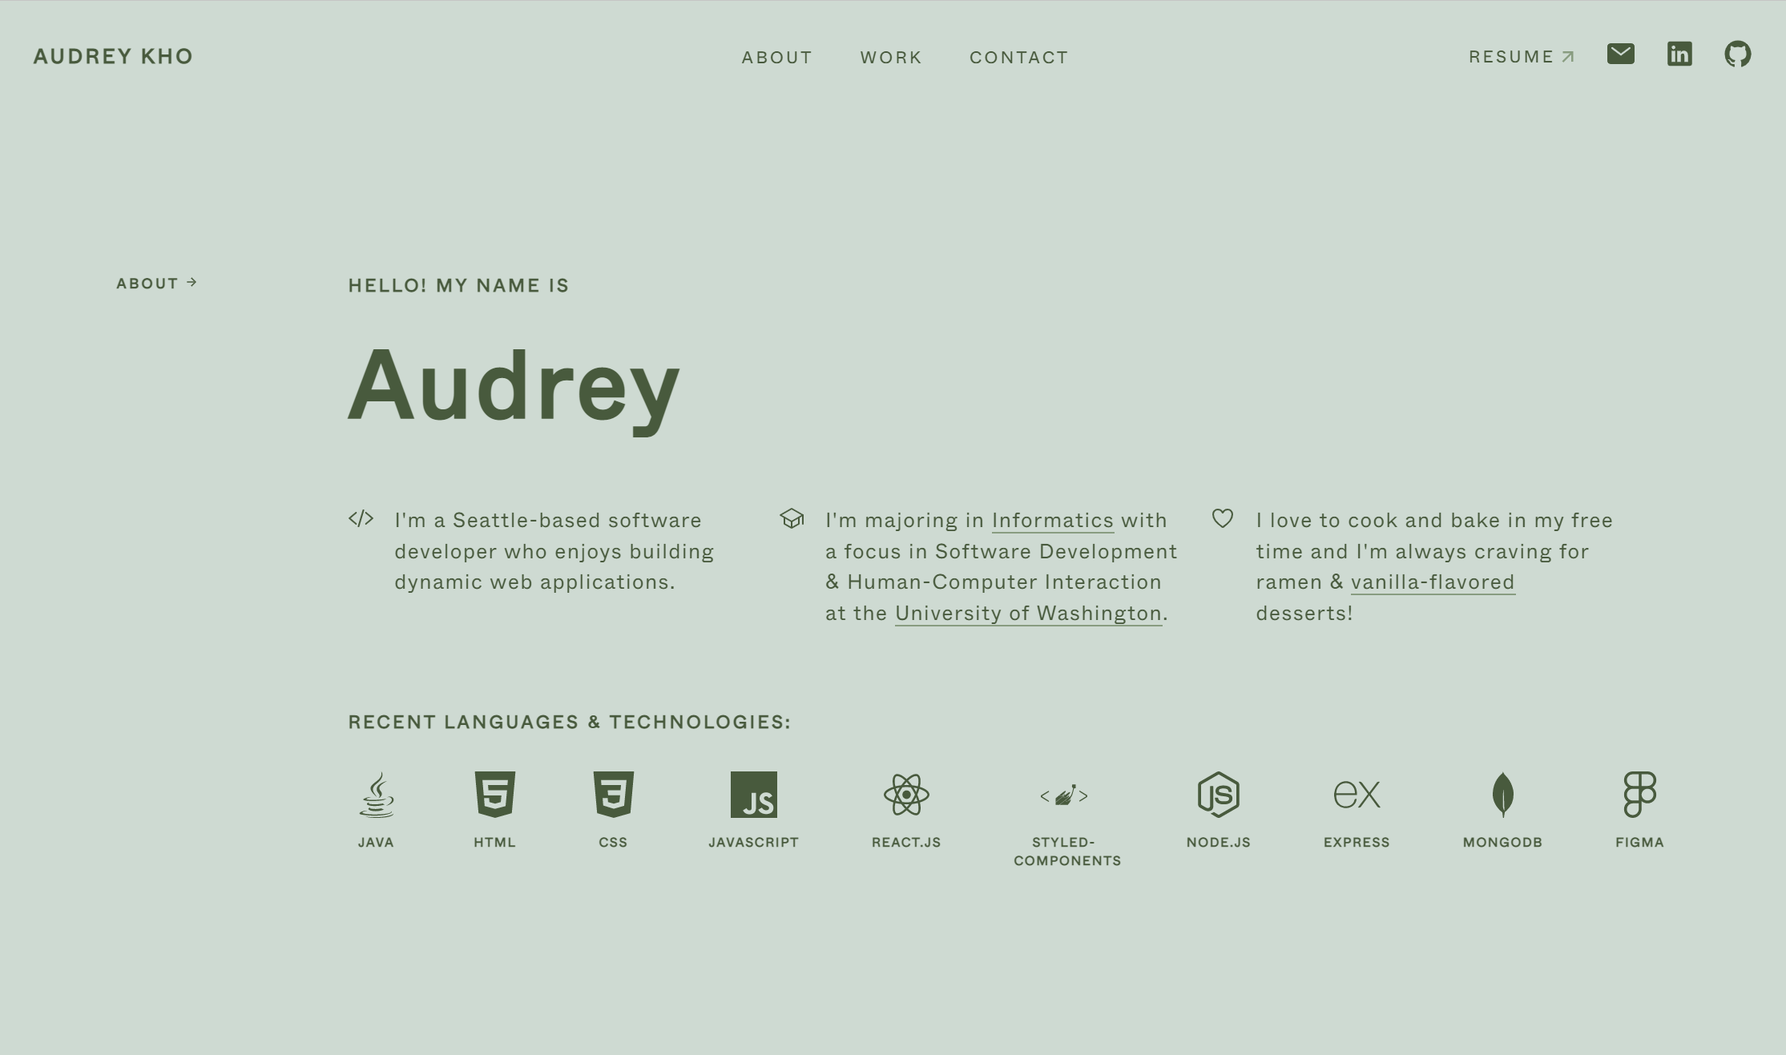
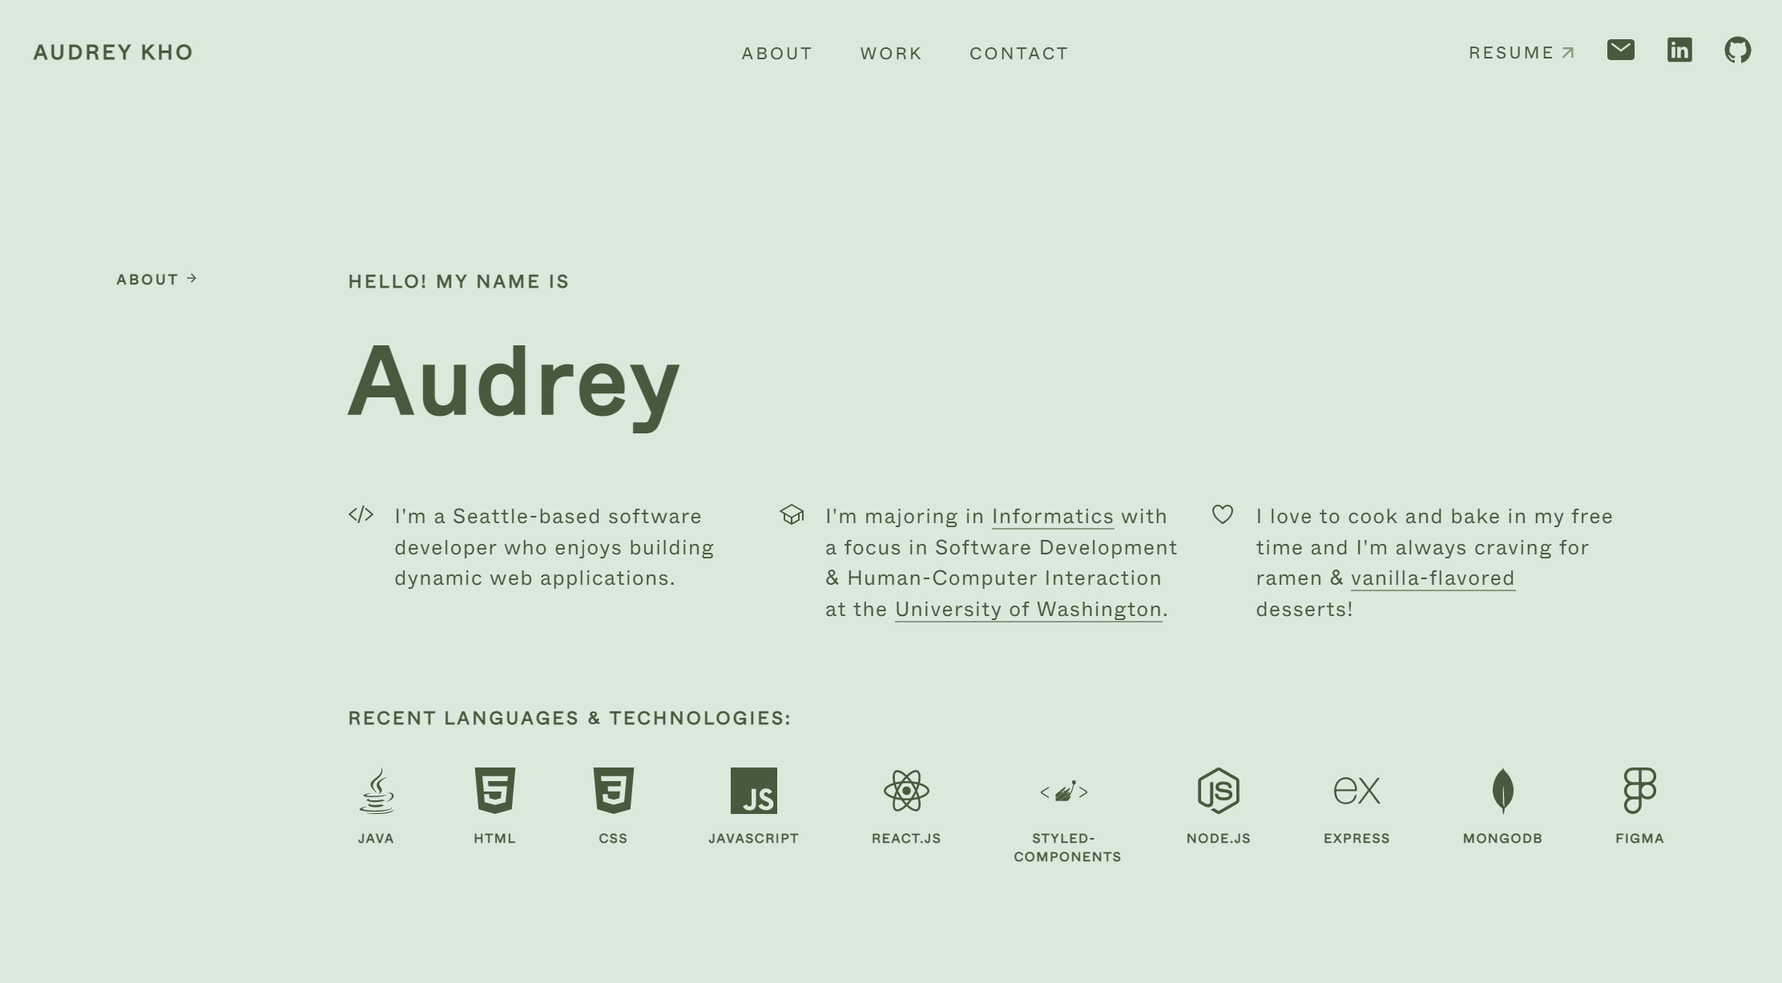
Updates

diff --git a/index.html b/index.html
@@ -1,1 +1,1 @@
-<!doctype html><html lang="en"><head><meta charset="utf-8"/><link rel="icon" href="/img/favicon.png"/><meta name="viewport" content="width=device-width,initial-scale=1,viewport-fit=cover"><meta property="og:type" content="website"/><meta property="og:image" content="https://audrey-kho.github.io/img/portfolio.png"/><meta property="og:description" content="Audrey is an aspiring software engineer based in Seattle, WA. She is currently a junior at the University of Washington studying Software Development and Human-Computer Interaction."/><meta property="description" content="Audrey is an aspiring software engineer based in Seattle, WA. She is currently a junior at the University of Washington studying Software Development and Human-Computer Interaction."/><script async src="https://www.googletagmanager.com/gtag/js?id=G-RCM78H9Z9L"></script><script>function gtag(){dataLayer.push(arguments)}window.dataLayer=window.dataLayer||[],gtag("js",new Date),gtag("config","G-RCM78H9Z9L")</script><link rel="manifest" href="/manifest.json"/><title>AUDREY KHO</title><link href="/static/css/main.ca78bb87.chunk.css" rel="stylesheet"></head><body><div id="root"></div><script>!function(e){function t(t){for(var n,i,a=t[0],c=t[1],f=t[2],s=0,p=[];s<a.length;s++)i=a[s],Object.prototype.hasOwnProperty.call(o,i)&&o[i]&&p.push(o[i][0]),o[i]=0;for(n in c)Object.prototype.hasOwnProperty.call(c,n)&&(e[n]=c[n]);for(l&&l(t);p.length;)p.shift()();return u.push.apply(u,f||[]),r()}function r(){for(var e,t=0;t<u.length;t++){for(var r=u[t],n=!0,a=1;a<r.length;a++){var c=r[a];0!==o[c]&&(n=!1)}n&&(u.splice(t--,1),e=i(i.s=r[0]))}return e}var n={},o={1:0},u=[];function i(t){if(n[t])return n[t].exports;var r=n[t]={i:t,l:!1,exports:{}};return e[t].call(r.exports,r,r.exports,i),r.l=!0,r.exports}i.e=function(e){var t=[],r=o[e];if(0!==r)if(r)t.push(r[2]);else{var n=new Promise((function(t,n){r=o[e]=[t,n]}));t.push(r[2]=n);var u,a=document.createElement("script");a.charset="utf-8",a.timeout=120,i.nc&&a.setAttribute("nonce",i.nc),a.src=function(e){return i.p+"static/js/"+({}[e]||e)+"."+{3:"c2cf6bc5",4:"5f68978f",5:"371f1f51",6:"f3b4c176",7:"9750e631"}[e]+".chunk.js"}(e);var c=new Error;u=function(t){a.onerror=a.onload=null,clearTimeout(f);var r=o[e];if(0!==r){if(r){var n=t&&("load"===t.type?"missing":t.type),u=t&&t.target&&t.target.src;c.message="Loading chunk "+e+" failed.\n("+n+": "+u+")",c.name="ChunkLoadError",c.type=n,c.request=u,r[1](c)}o[e]=void 0}};var f=setTimeout((function(){u({type:"timeout",target:a})}),12e4);a.onerror=a.onload=u,document.head.appendChild(a)}return Promise.all(t)},i.m=e,i.c=n,i.d=function(e,t,r){i.o(e,t)||Object.defineProperty(e,t,{enumerable:!0,get:r})},i.r=function(e){"undefined"!=typeof Symbol&&Symbol.toStringTag&&Object.defineProperty(e,Symbol.toStringTag,{value:"Module"}),Object.defineProperty(e,"__esModule",{value:!0})},i.t=function(e,t){if(1&t&&(e=i(e)),8&t)return e;if(4&t&&"object"==typeof e&&e&&e.__esModule)return e;var r=Object.create(null);if(i.r(r),Object.defineProperty(r,"default",{enumerable:!0,value:e}),2&t&&"string"!=typeof e)for(var n in e)i.d(r,n,function(t){return e[t]}.bind(null,n));return r},i.n=function(e){var t=e&&e.__esModule?function(){return e.default}:function(){return e};return i.d(t,"a",t),t},i.o=function(e,t){return Object.prototype.hasOwnProperty.call(e,t)},i.p="/",i.oe=function(e){throw console.error(e),e};var a=this["webpackJsonpreact-website"]=this["webpackJsonpreact-website"]||[],c=a.push.bind(a);a.push=t,a=a.slice();for(var f=0;f<a.length;f++)t(a[f]);var l=c;r()}([])</script><script src="/static/js/2.5cd3b147.chunk.js"></script><script src="/static/js/main.e0b5a104.chunk.js"></script></body></html>
+<!doctype html><html lang="en"><head><meta charset="utf-8"/><link rel="icon" href="/img/favicon.png"/><meta name="viewport" content="width=device-width,initial-scale=1,viewport-fit=cover"><meta property="og:type" content="website"/><meta property="og:image" content="https://audrey-kho.github.io/img/portfolio.png"/><meta property="og:description" content="Audrey is an aspiring software engineer based in Seattle, WA. She is currently a junior at the University of Washington studying Software Development and Human-Computer Interaction."/><meta property="description" content="Audrey is an aspiring software engineer based in Seattle, WA. She is currently a junior at the University of Washington studying Software Development and Human-Computer Interaction."/><script async src="https://www.googletagmanager.com/gtag/js?id=G-RCM78H9Z9L"></script><script>function gtag(){dataLayer.push(arguments)}window.dataLayer=window.dataLayer||[],gtag("js",new Date),gtag("config","G-RCM78H9Z9L")</script><link rel="manifest" href="/manifest.json"/><title>AUDREY KHO</title><link href="/static/css/main.4e545229.chunk.css" rel="stylesheet"></head><body><div id="root"></div><script>!function(e){function t(t){for(var n,a,i=t[0],c=t[1],f=t[2],s=0,p=[];s<i.length;s++)a=i[s],Object.prototype.hasOwnProperty.call(o,a)&&o[a]&&p.push(o[a][0]),o[a]=0;for(n in c)Object.prototype.hasOwnProperty.call(c,n)&&(e[n]=c[n]);for(l&&l(t);p.length;)p.shift()();return u.push.apply(u,f||[]),r()}function r(){for(var e,t=0;t<u.length;t++){for(var r=u[t],n=!0,i=1;i<r.length;i++){var c=r[i];0!==o[c]&&(n=!1)}n&&(u.splice(t--,1),e=a(a.s=r[0]))}return e}var n={},o={1:0},u=[];function a(t){if(n[t])return n[t].exports;var r=n[t]={i:t,l:!1,exports:{}};return e[t].call(r.exports,r,r.exports,a),r.l=!0,r.exports}a.e=function(e){var t=[],r=o[e];if(0!==r)if(r)t.push(r[2]);else{var n=new Promise((function(t,n){r=o[e]=[t,n]}));t.push(r[2]=n);var u,i=document.createElement("script");i.charset="utf-8",i.timeout=120,a.nc&&i.setAttribute("nonce",a.nc),i.src=function(e){return a.p+"static/js/"+({}[e]||e)+"."+{3:"c2cf6bc5",4:"5f68978f",5:"371f1f51",6:"5bac54b7",7:"9750e631"}[e]+".chunk.js"}(e);var c=new Error;u=function(t){i.onerror=i.onload=null,clearTimeout(f);var r=o[e];if(0!==r){if(r){var n=t&&("load"===t.type?"missing":t.type),u=t&&t.target&&t.target.src;c.message="Loading chunk "+e+" failed.\n("+n+": "+u+")",c.name="ChunkLoadError",c.type=n,c.request=u,r[1](c)}o[e]=void 0}};var f=setTimeout((function(){u({type:"timeout",target:i})}),12e4);i.onerror=i.onload=u,document.head.appendChild(i)}return Promise.all(t)},a.m=e,a.c=n,a.d=function(e,t,r){a.o(e,t)||Object.defineProperty(e,t,{enumerable:!0,get:r})},a.r=function(e){"undefined"!=typeof Symbol&&Symbol.toStringTag&&Object.defineProperty(e,Symbol.toStringTag,{value:"Module"}),Object.defineProperty(e,"__esModule",{value:!0})},a.t=function(e,t){if(1&t&&(e=a(e)),8&t)return e;if(4&t&&"object"==typeof e&&e&&e.__esModule)return e;var r=Object.create(null);if(a.r(r),Object.defineProperty(r,"default",{enumerable:!0,value:e}),2&t&&"string"!=typeof e)for(var n in e)a.d(r,n,function(t){return e[t]}.bind(null,n));return r},a.n=function(e){var t=e&&e.__esModule?function(){return e.default}:function(){return e};return a.d(t,"a",t),t},a.o=function(e,t){return Object.prototype.hasOwnProperty.call(e,t)},a.p="/",a.oe=function(e){throw console.error(e),e};var i=this["webpackJsonpreact-website"]=this["webpackJsonpreact-website"]||[],c=i.push.bind(i);i.push=t,i=i.slice();for(var f=0;f<i.length;f++)t(i[f]);var l=c;r()}([])</script><script src="/static/js/2.5cd3b147.chunk.js"></script><script src="/static/js/main.30426a74.chunk.js"></script></body></html>

diff --git a/static/js/main.30426a74.chunk.js b/static/js/main.30426a74.chunk.js
@@ -1,0 +1,2 @@
+(this["webpackJsonpreact-website"]=this["webpackJsonpreact-website"]||[]).push([[0],{1374:function(n,e,t){"use strict";t.r(e);var i,r,o,a=t(3),c=t.n(a),s=t(24),l=t.n(s),d=(t(56),t(19)),h=t(15),p=t(37),b=t(13),x=t(12),f=t(48),j=t(9),u=t(49),m=t(4),g=c.a.lazy((function(){return Promise.all([t.e(3),t.e(5)]).then(t.bind(null,1382))})),k=c.a.lazy((function(){return t.e(4).then(t.bind(null,1393))})),O=c.a.lazy((function(){return Promise.all([t.e(7),t.e(6)]).then(t.bind(null,1394))})),w=Object(u.a)({apiKey:"AIzaSyDe1AnnQzKoIb2kmpig5FYj60h6isSFK8c",authDomain:"audrey-kho.firebaseapp.com",databaseURL:"https://audrey-kho-default-rtdb.firebaseio.com",projectId:"audrey-kho",storageBucket:"audrey-kho.appspot.com",messagingSenderId:"306777134790",appId:"1:306777134790:web:024444a1e5d426846369c7",measurementId:"G-1WMJFHDP7Q"});function y(){var n=Object(a.useState)(!1),e=Object(h.a)(n,2),t=e[0],i=e[1],r=Object(a.useRef)(null);return Object(a.useEffect)((function(){document.addEventListener("mousedown",(function(n){t&&r.current&&!r.current.contains(n.target)&&i(!1)}))}),[t]),Object(m.jsxs)(a.Suspense,{fallback:Object(m.jsx)("div",{style:{width:"100%",height:"80em",background:"#DBE9DD"}}),children:[Object(m.jsxs)(C,{children:[Object(m.jsx)("h2",{children:"AUDREY KHO"}),Object(m.jsxs)("div",{className:"scroll-links",children:[Object(m.jsx)(j.Link,{to:"about",smooth:!0,offset:-132,children:"ABOUT"}),Object(m.jsx)(j.Link,{to:"work",smooth:!0,offset:-132,children:"WORK"}),Object(m.jsx)(j.Link,{to:"contact",smooth:!0,offset:-132,children:"CONTACT"})]}),Object(m.jsxs)("div",{className:"main-menu",children:[Object(m.jsxs)("a",{href:"https://drive.google.com/file/d/1K4P0W8m9sU6cNN-XS0x6gC4wB7RACUpC/view",target:"_blank",rel:"noreferrer",children:["RESUME",Object(m.jsx)(p.a,{width:16,height:16,stroke:2,color:"#889c80",position:-3.2})]}),Object(m.jsx)("a",{href:"mailto:audreyckho@gmail.com",target:"_blank",rel:"noreferrer",children:Object(m.jsx)(b.Mail,{color:"#485A3D",width:"26px",height:"24px"})}),Object(m.jsx)("a",{href:"https://www.linkedin.com/in/audrey-kho/",target:"_blank",rel:"noreferrer",children:Object(m.jsx)(b.LogoLinkedin,{color:"#485A3D",height:"24px"})}),Object(m.jsx)("a",{href:"https://github.com/audrey-kho",target:"_blank",rel:"noreferrer",children:Object(m.jsx)(b.LogoGithub,{color:"#485A3D",width:"24px",height:"24px"})})]}),Object(m.jsxs)("button",{className:"mobile-menu",ref:r,children:[Object(m.jsx)(b.MenuOutline,{color:"#485A3D",width:"28px",height:"28px",onClick:function(){i(!t)}}),Object(m.jsxs)("div",{className:Object(f.a)({"mobile-dropdown":!0,hidden:!t}),children:[Object(m.jsx)(j.Link,{to:"about",smooth:!0,offset:-132,onClick:function(){i(!1)},children:"ABOUT"}),Object(m.jsx)(j.Link,{to:"work",smooth:!0,offset:-132,onClick:function(){i(!1)},children:"WORK"}),Object(m.jsx)(j.Link,{to:"contact",smooth:!0,offset:-132,onClick:function(){i(!1)},children:"CONTACT"}),Object(m.jsx)("hr",{}),Object(m.jsx)("a",{href:"https://drive.google.com/file/d/1K4P0W8m9sU6cNN-XS0x6gC4wB7RACUpC/view",target:"_blank",rel:"noreferrer",onClick:function(){i(!1)},children:"RESUME"}),Object(m.jsx)("a",{href:"mailto:audreyckho@gmail.com",target:"_blank",rel:"noreferrer",onClick:function(){i(!1)},children:"E-MAIL"}),Object(m.jsx)("a",{href:"https://www.linkedin.com/in/audrey-kho/",target:"_blank",rel:"noreferrer",onClick:function(){i(!1)},children:"LINKEDIN"}),Object(m.jsx)("a",{href:"https://github.com/audrey-kho",target:"_blank",rel:"noreferrer",onClick:function(){i(!1)},children:"GITHUB"})]})]})]}),Object(m.jsx)(g,{}),Object(m.jsx)(k,{}),Object(m.jsx)(O,{firebaseConfig:w}),Object(m.jsxs)(A,{children:[Object(m.jsx)("h5",{children:"\xa9 AUDREY KHO 2022"}),Object(m.jsxs)("h5",{children:["Huge thanks to ",Object(m.jsx)("a",{href:"https://www.jtiutan.com/",target:"_blank",rel:"noreferrer",children:"Jill"})," & ",Object(m.jsx)("a",{href:"https://maxinekho.com/",target:"_blank",rel:"noreferrer",children:"Max"})," for the design help!"]})]})]})}var v=Object(x.keyframes)(i||(i=Object(d.a)(["\n  from {\n    transform: translateY(-6px);\n    opacity: 0.4;\n  }\n\n  to {\n    transform: translateY(0px);\n    opacity: 1;\n  }\n"]))),C=x.default.nav(r||(r=Object(d.a)(['\n  display: flex;\n  justify-content: space-between;\n  align-items: center;\n  margin: 0 auto;\n  padding: 0 18px;\n  max-width: 1380px;\n  position: sticky;\n  top: 0;\n  background: rgba(255, 255, 255, 0);\n  backdrop-filter: blur(2.5px);\n  z-index: 999;\n\n  h2 {\n    font-size: 16px;\n    margin: 24px 0;\n  }\n\n  a {\n    font-size: 13px;\n  }\n\n  .scroll-links {\n    margin-left: 8.2vw;\n\n    > * {\n      margin: 0 18px;\n    }\n\n    @media (max-width: 850px) {\n      display: none;\n    }\n  }\n\n  .main-menu {\n    display: flex;\n    align-items: center;\n\n    > * + * {\n      margin-left: 22px;\n    }\n\n    @media (max-width: 850px) {\n      display: none;\n    }\n  }\n\n  .mobile-menu {\n    position: relative;\n    display: none;\n    background: none;\n    border: none;\n    padding: 0;\n    border-radius: 3px;\n    transition: 0.3s all;\n    backdrop-filter: blur(10px) !important;\n\n    svg {\n      padding: 4px 8px 2px;\n    }\n\n    .mobile-dropdown {\n      display: flex;\n      flex-direction: column;\n      align-items: flex-end;\n      font-family: "Whyte", sans-serif;\n      letter-spacing: 1px;\n      line-height: 2.6em;\n      position: absolute;\n      top: 48px;\n      right: 0;\n      padding: 12px 18px;\n      background: rgba(206, 218, 210, 0.7);\n      border: solid rgba(0, 0, 0, 0.2) 0.5px;\n      border-radius: 8px;\n      animation: '," 0.2s ease;\n\n      a {\n        margin: 4px 6px;\n        padding: 2px;\n        font-size: 18px;\n        cursor: pointer !important;\n      }\n\n      hr {\n        border: 0;\n        display: block;\n        width: 100%;\n        background-color: #485A3D;\n        opacity: 0.4;\n        margin: 8px 0;\n        height: 0.6px;\n      }\n\n      &.hidden {\n        display: none;\n      }\n    }\n\n    &:hover,\n    &:active,\n    &:focus {\n      box-shadow: inset 0 0 3px rgba(95, 112, 83, 0.5);\n    }\n\n    @media (max-width: 850px) {\n      display: block;\n    }\n  }\n"])),v),A=x.default.footer(o||(o=Object(d.a)(['\n  font-family: "Whyte Light", sans-serif;\n  font-weight: 100;\n  position: relative;\n  padding: 24px;\n  display: flex;\n  font-weight: 500;\n  justify-content: space-between;\n\n  a {\n    position: relative;\n    display: inline;\n    padding: 0;\n    background-image: linear-gradient(#889c80, #889c80);\n    background-size: 1px 1px;\n    background-repeat: repeat-x;\n    background-position: 0 92%;\n  }\n'])));l.a.render(Object(m.jsx)(y,{}),document.getElementById("root"))},37:function(n,e,t){"use strict";t.d(e,"a",(function(){return r}));var i=t(4);function r(n){var e=n.width,t=n.height,r=n.stroke,o=void 0===r?1.8:r,a=n.color,c=void 0===a?"#485A3D":a,s=n.position,l=void 0===s?-5.5:s;return Object(i.jsxs)("svg",{xmlns:"http://www.w3.org/2000/svg",width:e,height:t,fill:"none",stroke:c,strokeLinejoin:"arcs",strokeWidth:o,className:"feather feather-arrow-up-right",viewBox:"0 0 20 22",style:{marginBottom:l+"px"},children:[Object(i.jsx)("path",{d:"M7 17L17 7"}),Object(i.jsx)("path",{d:"M7 7L17 7 17 17"})]})}},56:function(n,e,t){}},[[1374,1,2]]]);
+//# sourceMappingURL=main.30426a74.chunk.js.map

diff --git a/static/js/6.5bac54b7.chunk.js b/static/js/6.5bac54b7.chunk.js
@@ -1,0 +1,2 @@
+(this["webpackJsonpreact-website"]=this["webpackJsonpreact-website"]||[]).push([[6],{1375:function(n,e,t){"use strict";t.d(e,"c",(function(){return l})),t.d(e,"b",(function(){return x})),t.d(e,"a",(function(){return m}));var i,a,r,o=t(19),c=t(12),s=t(13),p=t(9),d=t(4),l=function(){var n=arguments.length<=0?void 0:arguments[0],e=n.href,t=n.children;return Object(d.jsx)(u,{children:Object(d.jsxs)(p.Link,{to:e,smooth:!0,offset:-92,children:[t,"\xa0",Object(d.jsx)(s.ArrowForwardSharp,{color:"#485A3D",width:"10px",height:"10px"})]})})},u=c.default.p(i||(i=Object(o.a)(['\n  display: flex;\n  position: sticky;\n  top: 80px;\n  margin: 1px 0 0 !important;\n  font-family: "Whyte", sans-serif;\n  font-size: 11px;\n  font-weight: 600;\n  min-width: 120px;\n\n  svg {\n    transition: 0.3s all;\n  }\n\n  a:hover svg {\n    transform: translateX(3px);\n  }\n\n  @media (max-width: 768px) {\n    display: none;\n  }\n']))),x=c.default.h5(a||(a=Object(o.a)(["\n  font-family: 'Whyte Book', sans-serif;\n  margin: 0 0 14px;\n  font-size: 14px;\n"]))),m=function(n){return Object(d.jsx)(f,{children:n.children})},f=c.default.section(r||(r=Object(o.a)(["\n  margin-left: 60px;\n  width: 100%;\n\n  @media (max-width: 768px) {\n    margin: 0;\n  }\n"])))},1376:function(n,e,t){"use strict";t.d(e,"a",(function(){return r}));var i,a=t(19),r=t(12).default.div(i||(i=Object(a.a)(["\n  position: relative;\n  max-width: 1208px;\n  margin: 0 auto;\n  padding: 0 5px;\n\n  @media (max-width: 1280px) {\n    margin: 0 16px;\n  }\n"])))},1394:function(n,e,t){"use strict";t.r(e),t.d(e,"default",(function(){return l}));var i,a=t(19),r=t(12),o=t(1375),c=t(1376),s=t(1379),p=t(3),d=t(4);function l(n){var e=n.firebaseConfig,t=Object(p.useRef)(),i=Object(p.useRef)(),a=Object(p.useRef)();return Object(d.jsx)(c.a,{children:Object(d.jsxs)(u,{id:"contact",children:[Object(d.jsx)(o.c,{href:"contact",children:"CONTACT"}),Object(d.jsxs)(o.a,{children:[Object(d.jsx)(o.b,{children:"SAY HELLO!"}),Object(d.jsx)("p",{style:{fontSize:"0.85em"},children:"Feel free to leave a message here and I'll send back a reply as soon as I can!"}),Object(d.jsxs)("form",{autoComplete:"on",onSubmit:function(n){n.preventDefault(),function(n,t,i){var a=Object(s.a)(e),r=Object(s.b)(Object(s.c)(a));console.log(n),n&&t&&i&&Object(s.d)(r,{name:n,email:t,message:i})}(t.current.value,i.current.value,a.current.value),t.current.value="",i.current.value="",a.current.value=""},children:[Object(d.jsxs)("div",{className:"short-input",children:[Object(d.jsx)("input",{ref:t,type:"text",autoComplete:"name",placeholder:"Name*",required:!0}),Object(d.jsx)("input",{ref:i,type:"email",autoComplete:"email",placeholder:"Email*",required:!0})]}),Object(d.jsx)("textarea",{ref:a,placeholder:"Message*",required:!0}),Object(d.jsx)("button",{type:"submit",children:"SEND MESSAGE"})]})]})]})})}var u=r.default.section(i||(i=Object(a.a)(['\n  display: flex;\n  justify-content: center;\n  align-items: flex-start;\n  margin: 120px 0 180px;\n  font-size: 1.16em;\n\n  section p {\n    width: 96%;\n  }\n\n  section a {\n    background-image: linear-gradient(to left, #889c80, #889c80);\n    background-repeat: repeat-x;\n    background-position: 0 92%;\n    background-size: 1px 1px;\n  }\n\n  form {\n    display: flex;\n    flex-direction: column;\n    margin: 2.2em 0;\n    width: 94%;\n  }\n\n  .short-input {\n    display: flex;\n    width: 100% !important;\n\n    > input + input {\n      margin-left: 18px;\n\n      @media (max-width: 768px) {\n        margin-left: 0;\n      }\n    }\n\n    @media (max-width: 768px) {\n      flex-direction: column;\n    }\n  }\n\n  .short-input input {\n    max-width: 600px;\n    height: 42px;\n    padding: 2px 8px;\n  }\n\n  textarea {\n    width: 98.5% !important;\n    height: 108px;\n    padding: 8px;\n  }\n\n  .short-input input,\n  textarea {\n    font-family: "Whyte Book", sans-serif;\n    background: rgba(255, 255, 255, 0.1);\n    outline: none;\n    border: #485A3D solid 1px;\n    border-radius: 5px;\n    margin-bottom: 16px;\n    color: #485A3D;\n    font-size: 0.85em;\n    letter-spacing: 1px;\n    width: inherit;\n\n    &::placeholder {\n      color: #8fa381;\n    }\n  }\n\n  button[type="submit"] {\n    --webkit-appearance: none;\n    font-family: "Whyte Medium", sans-serif;\n    display: inline;\n    height: 46px;\n    color: #DBE9DD;\n    font-size: 0.82em;\n    letter-spacing: 2px;\n    background: #485A3D;\n    outline: none;\n    border: none;\n    border-radius: 5px;\n    margin: 1.5em 0;\n    padding: 7px 28px;\n    max-width: 240px;\n    transition: all 0.3s;\n\n    &:hover {\n      cursor: pointer;\n      box-shadow: 0 3px 18px rgba(15, 22, 48, 0.18);\n      opacity: 0.8;\n    }\n\n    @media (max-width: 425px) {\n      margin: 1.5em auto;\n    }\n  }\n'])))}}]);
+//# sourceMappingURL=6.5bac54b7.chunk.js.map

diff --git a/static/js/runtime-main.806d6528.js b/static/js/runtime-main.806d6528.js
@@ -1,0 +1,2 @@
+!function(e){function t(t){for(var n,a,i=t[0],c=t[1],f=t[2],s=0,p=[];s<i.length;s++)a=i[s],Object.prototype.hasOwnProperty.call(o,a)&&o[a]&&p.push(o[a][0]),o[a]=0;for(n in c)Object.prototype.hasOwnProperty.call(c,n)&&(e[n]=c[n]);for(l&&l(t);p.length;)p.shift()();return u.push.apply(u,f||[]),r()}function r(){for(var e,t=0;t<u.length;t++){for(var r=u[t],n=!0,i=1;i<r.length;i++){var c=r[i];0!==o[c]&&(n=!1)}n&&(u.splice(t--,1),e=a(a.s=r[0]))}return e}var n={},o={1:0},u=[];function a(t){if(n[t])return n[t].exports;var r=n[t]={i:t,l:!1,exports:{}};return e[t].call(r.exports,r,r.exports,a),r.l=!0,r.exports}a.e=function(e){var t=[],r=o[e];if(0!==r)if(r)t.push(r[2]);else{var n=new Promise((function(t,n){r=o[e]=[t,n]}));t.push(r[2]=n);var u,i=document.createElement("script");i.charset="utf-8",i.timeout=120,a.nc&&i.setAttribute("nonce",a.nc),i.src=function(e){return a.p+"static/js/"+({}[e]||e)+"."+{3:"c2cf6bc5",4:"5f68978f",5:"371f1f51",6:"5bac54b7",7:"9750e631"}[e]+".chunk.js"}(e);var c=new Error;u=function(t){i.onerror=i.onload=null,clearTimeout(f);var r=o[e];if(0!==r){if(r){var n=t&&("load"===t.type?"missing":t.type),u=t&&t.target&&t.target.src;c.message="Loading chunk "+e+" failed.\n("+n+": "+u+")",c.name="ChunkLoadError",c.type=n,c.request=u,r[1](c)}o[e]=void 0}};var f=setTimeout((function(){u({type:"timeout",target:i})}),12e4);i.onerror=i.onload=u,document.head.appendChild(i)}return Promise.all(t)},a.m=e,a.c=n,a.d=function(e,t,r){a.o(e,t)||Object.defineProperty(e,t,{enumerable:!0,get:r})},a.r=function(e){"undefined"!==typeof Symbol&&Symbol.toStringTag&&Object.defineProperty(e,Symbol.toStringTag,{value:"Module"}),Object.defineProperty(e,"__esModule",{value:!0})},a.t=function(e,t){if(1&t&&(e=a(e)),8&t)return e;if(4&t&&"object"===typeof e&&e&&e.__esModule)return e;var r=Object.create(null);if(a.r(r),Object.defineProperty(r,"default",{enumerable:!0,value:e}),2&t&&"string"!=typeof e)for(var n in e)a.d(r,n,function(t){return e[t]}.bind(null,n));return r},a.n=function(e){var t=e&&e.__esModule?function(){return e.default}:function(){return e};return a.d(t,"a",t),t},a.o=function(e,t){return Object.prototype.hasOwnProperty.call(e,t)},a.p="/",a.oe=function(e){throw console.error(e),e};var i=this["webpackJsonpreact-website"]=this["webpackJsonpreact-website"]||[],c=i.push.bind(i);i.push=t,i=i.slice();for(var f=0;f<i.length;f++)t(i[f]);var l=c;r()}([]);
+//# sourceMappingURL=runtime-main.806d6528.js.map

diff --git a/static/css/main.4e545229.chunk.css b/static/css/main.4e545229.chunk.css
@@ -1,0 +1,2 @@
+@font-face{font-family:Whyte Book;src:url(/static/media/Whyte-Book.a0b08eb3.ttf) format("truetype")}@font-face{font-family:Whyte;src:url(/static/media/Whyte-Regular.e79fa214.ttf) format("truetype")}@font-face{font-family:Whyte Medium;src:url(/static/media/Whyte-Medium.a61cf7bb.ttf) format("truetype")}@font-face{font-family:Whyte Bold;src:url(/static/media/Whyte-Black.7e1ade3c.otf) format("opentype")}@font-face{font-family:Whyte Light;src:url(/static/media/Whyte-Light.5e7043fa.ttf) format("truetype")}html{box-sizing:border-box!important;background:#dbe9dd}body{position:relative;height:100%;background-color:#dbe9dd;min-height:80em;font-family:"Whyte",sans-serif;color:#485a3d!important;letter-spacing:2px!important}p{font-family:"Whyte Book",sans-serif}a{color:#485a3d;text-decoration:none;transition:opacity .3s}a:hover{opacity:.8;cursor:pointer}
+/*# sourceMappingURL=main.4e545229.chunk.css.map */
